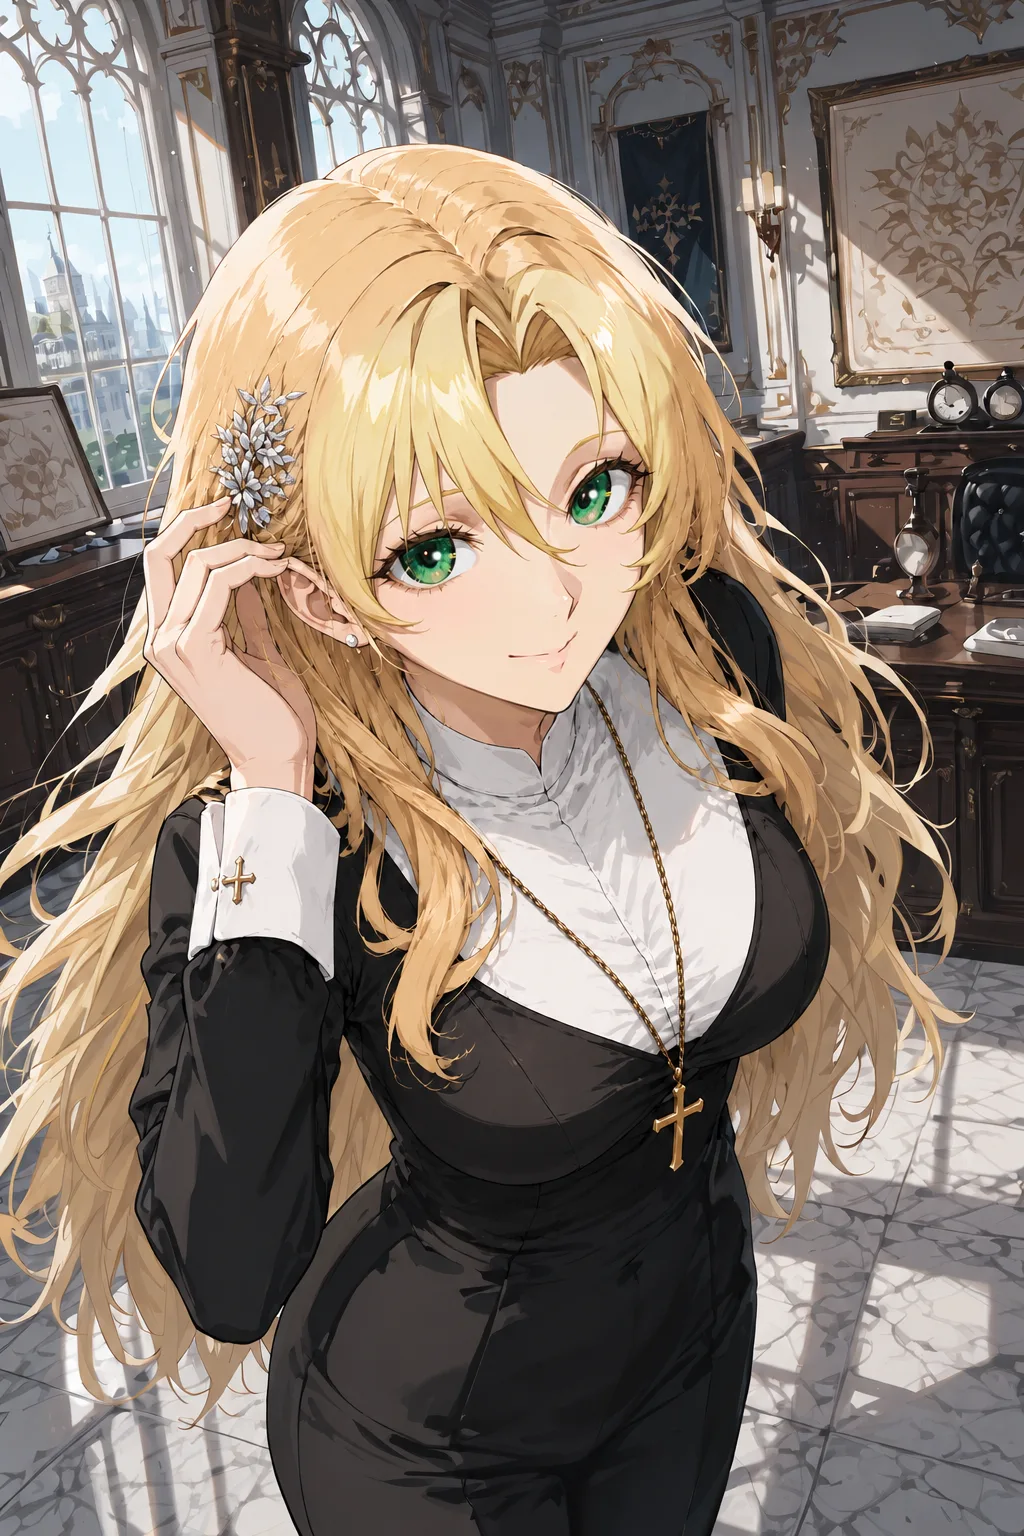
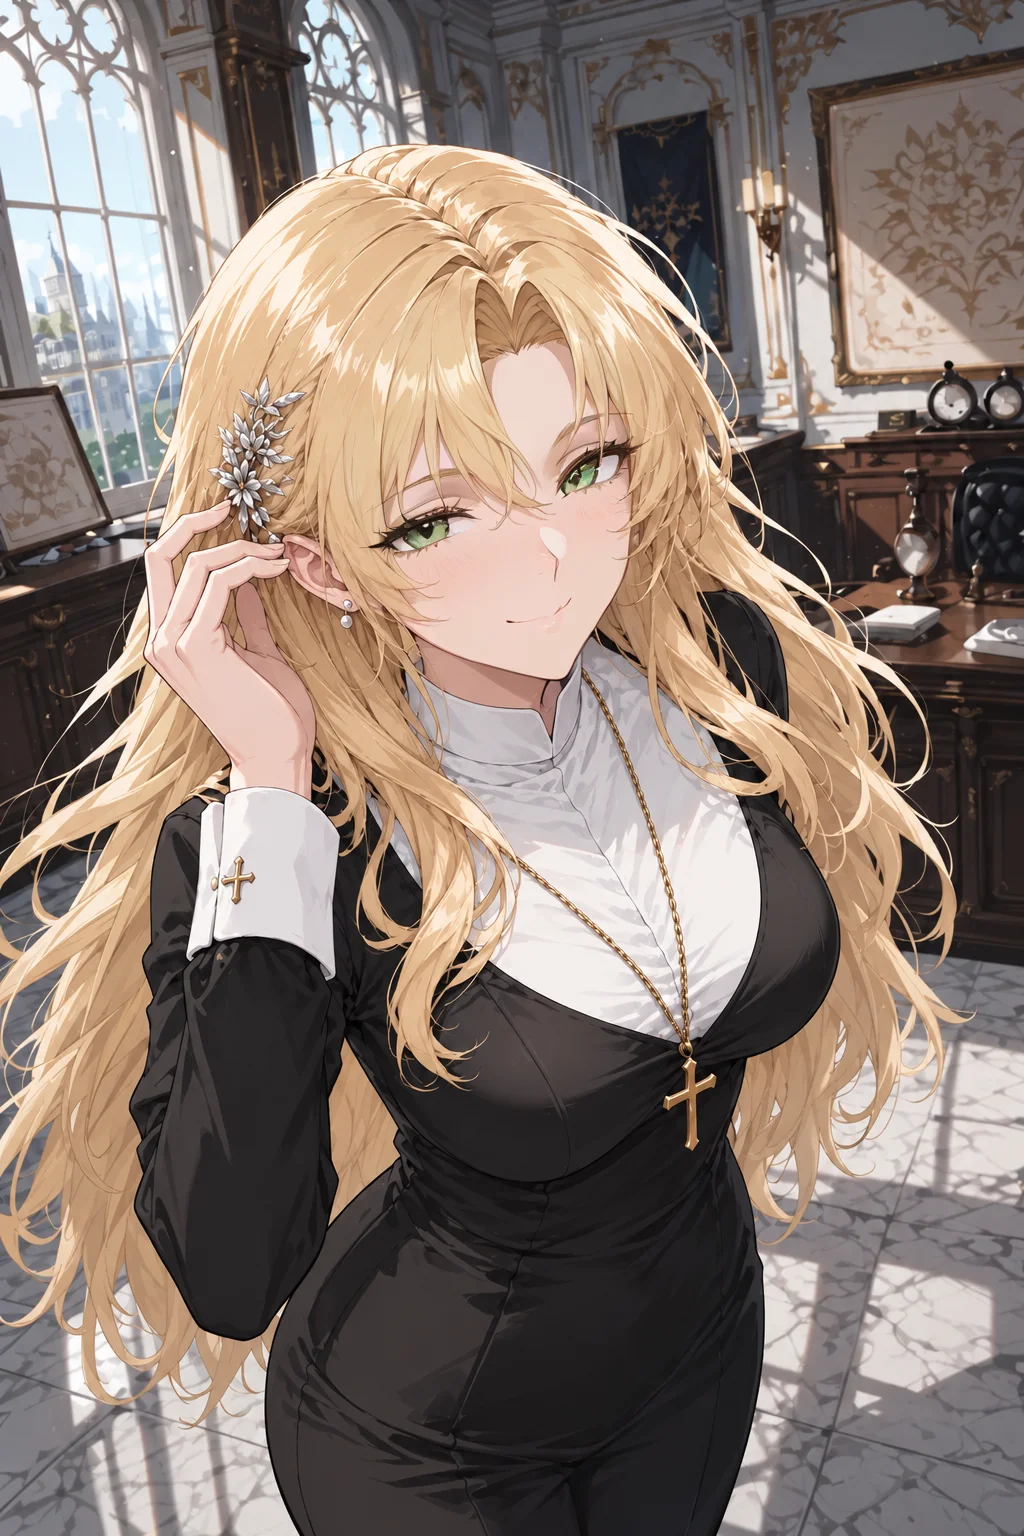
ver -1916：接美術新圖 —— 插圖 004_renna_intro 重交（ASSET_VER 2）、023_anyacottoncandy 掛上雪都安雅約會「真的……跟雲朵一樣。」、024_nouvellesmile 入庫待定位；賽西莉 front 重交（?v=2、重量取景）＋新差分 cringe

diff --git a/flight/index.html b/flight/index.html
@@ -3,7 +3,7 @@
 <head>
 <meta charset="utf-8">
 <meta name="viewport" content="width=device-width,initial-scale=1,maximum-scale=1,user-scalable=no,viewport-fit=cover">
-<script src="../orientation.js?v=1915"></script>
+<script src="../orientation.js?v=1916"></script>
 <script>
 /* 介面字譯文（ver -1909）：這一頁是非模組，程式一開跑就讀字串 —— 所以譯文表要**同步**載
    （document.write，只在選了有譯文的語言時）。語言判定與 i18n.js 的 LANG 同一套
@@ -11,7 +11,7 @@
 (function(){
   var l=null; try{ l=localStorage.getItem('tivot.lang'); }catch(e){}
   if(!l){ try{ var n=(navigator.languages&&navigator.languages[0])||navigator.language||''; if(String(n).toLowerCase().indexOf('es')===0) l='es'; }catch(e){} }
-  if(['es'].indexOf(l)>=0) document.write('<script src="../i18n/script/'+l+'.classic.js?v=1915"><\/script><script src="../i18n/ui/'+l+'.classic.js?v=1915"><\/script>');
+  if(['es'].indexOf(l)>=0) document.write('<script src="../i18n/script/'+l+'.classic.js?v=1916"><\/script><script src="../i18n/ui/'+l+'.classic.js?v=1916"><\/script>');
 })();
 function i18nT(s){ var t=window.__TIVOT_TR; return (t && typeof s==='string' && t[s]!=null) ? t[s] : s; }
 document.addEventListener('DOMContentLoaded', function(){
@@ -230,7 +230,7 @@ document.addEventListener('DOMContentLoaded', function(){
     100%{transform:translate(0,0);} }
   #fkerbDoor{position:absolute;left:0;top:0;transform:translateY(0);
     transition:transform 1s cubic-bezier(.22,.9,.25,1);
-    background-image:url('../resources/vfx/kerberos_door.webp?v=1915edab');
+    background-image:url('../resources/vfx/kerberos_door.webp?v=1916edab');
     background-repeat:no-repeat;background-size:100% 100%;}
   #fkerb.rise #fkerbDoor{transform:translateY(calc(var(--fkerb-rise,0px) * -1));}
   /* 楣與其餘零件：全部是門的子元素＝同一剛體，門上推它們跟著上去
@@ -253,8 +253,8 @@ document.addEventListener('DOMContentLoaded', function(){
       radial-gradient(circle at 50% 22%, rgba(0,0,0,.72) 40%, rgba(0,0,0,0) 78%);
     box-shadow:inset 0 3px 7px rgba(0,0,0,.85);}
   #fkerbGear .fkg-shine{position:absolute;inset:0;mix-blend-mode:screen;opacity:.8;
-    -webkit-mask-image:url("../resources/vfx/kerberos_gear.webp?v=1915edab");
-    mask-image:url("../resources/vfx/kerberos_gear.webp?v=1915edab");
+    -webkit-mask-image:url("../resources/vfx/kerberos_gear.webp?v=1916edab");
+    mask-image:url("../resources/vfx/kerberos_gear.webp?v=1916edab");
     -webkit-mask-size:100% 100%;mask-size:100% 100%;
     -webkit-mask-repeat:no-repeat;mask-repeat:no-repeat;
     background:linear-gradient(114deg,
@@ -274,8 +274,8 @@ document.addEventListener('DOMContentLoaded', function(){
     filter:drop-shadow(0 3px 7px rgba(0,0,0,.9)) drop-shadow(0 0 2px rgba(0,0,0,.8));}
   #fkerbPend .fkp-shine{position:absolute;inset:0;pointer-events:none;
     mix-blend-mode:screen;opacity:.85;
-    -webkit-mask-image:url("../resources/vfx/kerberos_pendant.webp?v=1915edab");
-    mask-image:url("../resources/vfx/kerberos_pendant.webp?v=1915edab");
+    -webkit-mask-image:url("../resources/vfx/kerberos_pendant.webp?v=1916edab");
+    mask-image:url("../resources/vfx/kerberos_pendant.webp?v=1916edab");
     -webkit-mask-size:100% 100%;mask-size:100% 100%;
     -webkit-mask-repeat:no-repeat;mask-repeat:no-repeat;
     background:linear-gradient(114deg,
@@ -640,25 +640,25 @@ img:not([src]), img[src=""], img.img-broken{visibility:hidden !important;}
        ⚠ 要有，否則交棒那一格齒輪會憑空冒出來（同吊墜的理由）。
        ⚠ 排在 `.fk-plate` 之前 ＝ 團徽之下、槍棺之上。 -->
   <div id="fkerbGear"><i class="fkg-well"></i>
-    <img src="../resources/vfx/kerberos_gear.webp?v=1915edab" alt=""><i class="fkg-shine"></i></div>
+    <img src="../resources/vfx/kerberos_gear.webp?v=1916edab" alt=""><i class="fkg-shine"></i></div>
   <div id="fkerbGearSm"><i class="fkg-well"></i>
-    <img src="../resources/vfx/kerberos_gear.webp?v=1915edab" alt=""></div>
-  <img class="fk-plate" src="../resources/vfx/kerberos_plate.webp?v=1915edab" alt="">
-  <img class="fk-arrow n" src="../resources/vfx/kerberos_arrow.webp?v=1915edab" alt="">
-  <img class="fk-arrow e" src="../resources/vfx/kerberos_arrow.webp?v=1915edab" alt="">
-  <img class="fk-arrow s" src="../resources/vfx/kerberos_arrow.webp?v=1915edab" alt="">
-  <img class="fk-arrow w" src="../resources/vfx/kerberos_arrow.webp?v=1915edab" alt="">
-  <img class="fk-rivet r10" src="../resources/vfx/kerberos_rivet.webp?v=1915edab" alt="">
-  <img class="fk-rivet r2"  src="../resources/vfx/kerberos_rivet.webp?v=1915edab" alt="">
-  <img class="fk-rivet r4"  src="../resources/vfx/kerberos_rivet.webp?v=1915edab" alt="">
-  <img class="fk-rivet r8"  src="../resources/vfx/kerberos_rivet.webp?v=1915edab" alt="">
+    <img src="../resources/vfx/kerberos_gear.webp?v=1916edab" alt=""></div>
+  <img class="fk-plate" src="../resources/vfx/kerberos_plate.webp?v=1916edab" alt="">
+  <img class="fk-arrow n" src="../resources/vfx/kerberos_arrow.webp?v=1916edab" alt="">
+  <img class="fk-arrow e" src="../resources/vfx/kerberos_arrow.webp?v=1916edab" alt="">
+  <img class="fk-arrow s" src="../resources/vfx/kerberos_arrow.webp?v=1916edab" alt="">
+  <img class="fk-arrow w" src="../resources/vfx/kerberos_arrow.webp?v=1916edab" alt="">
+  <img class="fk-rivet r10" src="../resources/vfx/kerberos_rivet.webp?v=1916edab" alt="">
+  <img class="fk-rivet r2"  src="../resources/vfx/kerberos_rivet.webp?v=1916edab" alt="">
+  <img class="fk-rivet r4"  src="../resources/vfx/kerberos_rivet.webp?v=1916edab" alt="">
+  <img class="fk-rivet r8"  src="../resources/vfx/kerberos_rivet.webp?v=1916edab" alt="">
   <!-- 吊墜（ver -412）：與主遊戲同一套（見 index.html 的 #kerbPend 與 style.css）。
        ⚠ 這一頁**必須也有** —— 遭遇時門是在這裡推上來的，交棒之後主遊戲那一半才接手；
          只有一邊掛吊墜的話，交棒那一格會憑空多出一個東西。 -->
   <div id="fkerbPend"><div class="fkp-swing"><div class="fkp-idle">
-    <img src="../resources/vfx/kerberos_pendant.webp?v=1915edab" alt=""><i class="fkp-shine"></i>
+    <img src="../resources/vfx/kerberos_pendant.webp?v=1916edab" alt=""><i class="fkp-shine"></i>
   </div></div></div>
-  <img id="fkerbTop" src="../resources/vfx/kerberos_top.webp?v=1915edab" alt="">
+  <img id="fkerbTop" src="../resources/vfx/kerberos_top.webp?v=1916edab" alt="">
 </div></div>
 <div id="boot">
   <div id="bRing">
@@ -679,11 +679,11 @@ img:not([src]), img[src=""], img.img-broken{visibility:hidden !important;}
   <div id="bMsg"><small id="bootMsg"></small></div>
 </div>
 
-<script src="settlement.js?v=1915"></script>
+<script src="settlement.js?v=1916"></script>
 <!-- 閒聊對話的**內容**獨立成一支：方便加台詞、加觸發條件而不必碰引擎。
      ⚠ 一般 <script>（非 module）→ TALKS / talkPeriod / talkPick 是全域，
        而且會在下面這段 inline 之前執行完，所以 inline 內可以直接用。 -->
-<script src="talks.js?v=1915"></script>
+<script src="talks.js?v=1916"></script>
 <script>
 /* 破圖框一律不畫（ver -1881，同主頁 main.js 那一支，這一頁是另一個 document）。 */
 document.addEventListener('error', e=>{ const t=e.target; if(t && t.tagName==='IMG') t.classList.add('img-broken'); }, true);
@@ -756,7 +756,7 @@ const COLOR_URL  = 'silvermoon_terrain.png'  + TERRAIN_V;
    以前是手寫的，於是從 -911 起就沒有人記得動它 —— 而 HUD 上的版本號正是 Ray
    在手機上確認「我現在跑的是哪一版」的唯一依據（鐵律 7：一個量一個計算點；
    ver -626：版本號不動就等於沒有版本號）。**不要手改。** */
-const FLIGHT_VER = 'ver -1915';
+const FLIGHT_VER = 'ver -1916';
 const MAP_SCALE  = 20;
 const INV_SCALE  = 1/MAP_SCALE;
 const PEAK_SCALE = 520;   // 高度圖 255 對應的世界高度（越大山越陡）

diff --git a/index.html b/index.html
@@ -16,7 +16,7 @@
 <link rel="apple-touch-icon" href="resources/background/tivot_emblem.png">
 <title>TIVOT</title>
 <!-- 全域鎖直向（真鎖 + 橫向擋板）；classic script，需在版面就緒前掛上 -->
-<script src="orientation.js?v=1915"></script>
+<script src="orientation.js?v=1916"></script>
 <!-- ══ 效能探針・計數層（ver -850，Ray：「沒有辦法寫一個偵測程式進去看是什麼
      東西在吃資源嗎？」）══ 要在**所有程式之前**掛（晚掛就數不到早開的計時器），
      所以住在這裡。只做登記（Set/計數，開銷趨近零）；讀取與呈現在 main.js 的
@@ -63,65 +63,65 @@
 <script type="importmap">
 {
   "imports": {
-    "./audio.js": "./audio.js?v=1915",
-    "./config.js": "./config.js?v=1915",
-    "./i18n.js": "./i18n.js?v=1915",
-    "./main.js": "./main.js?v=1915",
-    "./orientation.js": "./orientation.js?v=1915",
-    "./state.js": "./state.js?v=1915",
-    "./telemetry.js": "./telemetry.js?v=1915",
-    "./modules/beatpick.js": "./modules/beatpick.js?v=1915",
-    "./modules/combat.js": "./modules/combat.js?v=1915",
-    "./modules/defense.js": "./modules/defense.js?v=1915",
-    "./modules/enemy.js": "./modules/enemy.js?v=1915",
-    "./modules/gear.js": "./modules/gear.js?v=1915",
-    "./modules/groundShadow.js": "./modules/groundShadow.js?v=1915",
-    "./modules/haptics.js": "./modules/haptics.js?v=1915",
-    "./modules/inn.js": "./modules/inn.js?v=1915",
-    "./modules/inspector.js": "./modules/inspector.js?v=1915",
-    "./modules/loot.js": "./modules/loot.js?v=1915",
-    "./modules/partner.js": "./modules/partner.js?v=1915",
-    "./modules/saint.js": "./modules/saint.js?v=1915",
-    "./modules/sakura.js": "./modules/sakura.js?v=1915",
-    "./modules/save.js": "./modules/save.js?v=1915",
-    "./modules/settings.js": "./modules/settings.js?v=1915",
-    "./modules/story.js": "./modules/story.js?v=1915",
-    "./modules/tone.js": "./modules/tone.js?v=1915",
-    "./modules/town.js": "./modules/town.js?v=1915",
-    "./modules/transition.js": "./modules/transition.js?v=1915",
-    "./modules/tutorial.js": "./modules/tutorial.js?v=1915",
-    "./modules/weapon.js": "./modules/weapon.js?v=1915",
-    "./script/bg_index.js": "./script/bg_index.js?v=1915",
-    "./script/clock.js": "./script/clock.js?v=1915",
-    "./script/enemies.js": "./script/enemies.js?v=1915",
-    "./script/evaluation.js": "./script/evaluation.js?v=1915",
-    "./script/inventory.js": "./script/inventory.js?v=1915",
-    "./script/loadout.js": "./script/loadout.js?v=1915",
-    "./script/mainScript.js": "./script/mainScript.js?v=1915",
-    "./script/progress.js": "./script/progress.js?v=1915",
-    "./script/shopcards.js": "./script/shopcards.js?v=1915",
-    "./script/shopstock.js": "./script/shopstock.js?v=1915",
-    "./script/speakers.js": "./script/speakers.js?v=1915",
-    "./script/town.js": "./script/town.js?v=1915",
-    "./script/weapons.js": "./script/weapons.js?v=1915",
-    "./i18n/en.js": "./i18n/en.js?v=1915",
-    "./i18n/es.js": "./i18n/es.js?v=1915",
-    "./i18n/ja.js": "./i18n/ja.js?v=1915",
-    "./i18n/scriptTr.js": "./i18n/scriptTr.js?v=1915",
-    "./i18n/zh.js": "./i18n/zh.js?v=1915",
-    "./i18n/script/es.classic.js": "./i18n/script/es.classic.js?v=1915",
-    "./i18n/script/es.js": "./i18n/script/es.js?v=1915",
-    "./i18n/ui/es.classic.js": "./i18n/ui/es.classic.js?v=1915",
-    "./i18n/ui/es.js": "./i18n/ui/es.js?v=1915"
+    "./audio.js": "./audio.js?v=1916",
+    "./config.js": "./config.js?v=1916",
+    "./i18n.js": "./i18n.js?v=1916",
+    "./main.js": "./main.js?v=1916",
+    "./orientation.js": "./orientation.js?v=1916",
+    "./state.js": "./state.js?v=1916",
+    "./telemetry.js": "./telemetry.js?v=1916",
+    "./modules/beatpick.js": "./modules/beatpick.js?v=1916",
+    "./modules/combat.js": "./modules/combat.js?v=1916",
+    "./modules/defense.js": "./modules/defense.js?v=1916",
+    "./modules/enemy.js": "./modules/enemy.js?v=1916",
+    "./modules/gear.js": "./modules/gear.js?v=1916",
+    "./modules/groundShadow.js": "./modules/groundShadow.js?v=1916",
+    "./modules/haptics.js": "./modules/haptics.js?v=1916",
+    "./modules/inn.js": "./modules/inn.js?v=1916",
+    "./modules/inspector.js": "./modules/inspector.js?v=1916",
+    "./modules/loot.js": "./modules/loot.js?v=1916",
+    "./modules/partner.js": "./modules/partner.js?v=1916",
+    "./modules/saint.js": "./modules/saint.js?v=1916",
+    "./modules/sakura.js": "./modules/sakura.js?v=1916",
+    "./modules/save.js": "./modules/save.js?v=1916",
+    "./modules/settings.js": "./modules/settings.js?v=1916",
+    "./modules/story.js": "./modules/story.js?v=1916",
+    "./modules/tone.js": "./modules/tone.js?v=1916",
+    "./modules/town.js": "./modules/town.js?v=1916",
+    "./modules/transition.js": "./modules/transition.js?v=1916",
+    "./modules/tutorial.js": "./modules/tutorial.js?v=1916",
+    "./modules/weapon.js": "./modules/weapon.js?v=1916",
+    "./script/bg_index.js": "./script/bg_index.js?v=1916",
+    "./script/clock.js": "./script/clock.js?v=1916",
+    "./script/enemies.js": "./script/enemies.js?v=1916",
+    "./script/evaluation.js": "./script/evaluation.js?v=1916",
+    "./script/inventory.js": "./script/inventory.js?v=1916",
+    "./script/loadout.js": "./script/loadout.js?v=1916",
+    "./script/mainScript.js": "./script/mainScript.js?v=1916",
+    "./script/progress.js": "./script/progress.js?v=1916",
+    "./script/shopcards.js": "./script/shopcards.js?v=1916",
+    "./script/shopstock.js": "./script/shopstock.js?v=1916",
+    "./script/speakers.js": "./script/speakers.js?v=1916",
+    "./script/town.js": "./script/town.js?v=1916",
+    "./script/weapons.js": "./script/weapons.js?v=1916",
+    "./i18n/en.js": "./i18n/en.js?v=1916",
+    "./i18n/es.js": "./i18n/es.js?v=1916",
+    "./i18n/ja.js": "./i18n/ja.js?v=1916",
+    "./i18n/scriptTr.js": "./i18n/scriptTr.js?v=1916",
+    "./i18n/zh.js": "./i18n/zh.js?v=1916",
+    "./i18n/script/es.classic.js": "./i18n/script/es.classic.js?v=1916",
+    "./i18n/script/es.js": "./i18n/script/es.js?v=1916",
+    "./i18n/ui/es.classic.js": "./i18n/ui/es.classic.js?v=1916",
+    "./i18n/ui/es.js": "./i18n/ui/es.js?v=1916"
   }
 }
 </script>
 <!-- BUST:END -->
-<link rel="stylesheet" href="style.css?v=1915">
+<link rel="stylesheet" href="style.css?v=1916">
   <!-- 拾得道具／道具欄／商店／懸賞榜（ver -380 抽出，飛行頁共用同一份）。
        ⚠ `data-lootsheet` 是給 `modules/loot.js` 認的：它看到已經掛過就不再掛一次。
          飛行頁沒有這一行，由那支模組自己掛上去。 -->
-  <link rel="stylesheet" href="css/lootsheet.css?v=1915" data-lootsheet="1">
+  <link rel="stylesheet" href="css/lootsheet.css?v=1916" data-lootsheet="1">
 <!-- 主畫面 App（standalone）偵測：首繪前在 <html> 蓋 .standalone，
      供 CSS 修 iOS 26 版面視窗少算頂部安全區高度（底部露黑帶）的問題 -->
 <script>
@@ -745,6 +745,6 @@
      ⚠ src 是**按下去才給**的（lazy）：不然每次開機都要多載一整個飛行頁。 -->
 <iframe id="flightFrame" title="飛行"></iframe>
 
-<script type="module" src="main.js?v=1915"></script>
+<script type="module" src="main.js?v=1916"></script>
 </body>
 </html>

diff --git a/script/town.js b/script/town.js
@@ -5641,11 +5641,11 @@ export const TOWNS = {
         shop:'rv_grocery', keeperWho:'SHOPKEEP', kind:'grocery', hours:[8,17], closed:'櫥窗裡的燈熄了，門板上掛著「已打烊」。',   // 商店：通用帝都版本、店主暫用帝都（ver -1831，卡在 script/shopcards.js）
         exits:{ back:'uptown' },
         /* ══ 約會・安雅（ver -1522）══ 棉花糖。
-           ⚠ 稿上「安雅棉花糖插圖」還沒有檔案 ⇒ **不寫 `cg:`**（同酒吧那一格）。
-             圖到了補在「真的……跟雲朵一樣。」那一拍、下一拍 `cg:null` 收掉。 */
+           ⚠ 插圖 `023_anyacottoncandy`（ver -1916 接上）掛在「真的……跟雲朵一樣。」那一拍、下一拍 `cg:null` 收掉。 */
         acts:[ { flag:'vn_shop_anya', withWho:'ANYA', lines:[
-          any('amaze','真的……跟雲朵一樣。'),
-          any('smileshy','好甜。'),
+          /* ver -1916：插圖 `023_anyacottoncandy` 到了 —— 掛在這一句，下一拍收掉。 */
+          Object.assign(any('amaze','真的……跟雲朵一樣。'), { cg:'023_anyacottoncandy', cgNoTime:true }),
+          Object.assign(any('smileshy','好甜。'), { cg:null }),
         ] } ] },
       /* ⚠ 這一格**沒有** `inn:true`：旅店大廳與四扇伙伴門這一輪不做（同聖索菲亞）
          —— 只寫 `inn:true` 而沒有人應門的話，玩家會敲到一排空門（§6.5.5）。 */

diff --git a/config.js b/config.js
@@ -84,7 +84,7 @@ export const HITFX = {
  *     以為是快取卡住 —— 版本號不動就等於沒有版本號）。
  *  ⚠ 它同時是**暖開機戳記的鑰匙**（main.js 的 `WARM_BOOT`）：版本一變，
  *    上一版的戳記就失效 → 下一次開機重跑完整讀取。那正是改版後該有的行為。 */
-export const VERSION = 'ver 2026.09.22-1915';
+export const VERSION = 'ver 2026.09.22-1916';
 
 export const GAME_CONFIG = {
 
@@ -5082,6 +5082,7 @@ export function asset(key){ return (key && ASSETS[key] != null) ? ASSETS[key] : 
      呼叫端各自拼一次。 */
 export const ASSET_VER = {
   '008_rennaholdanya': 2,   // ver -1882：美術重交（png→webp 同名覆蓋）
+  '004_renna_intro':   2,   // ver -1916：美術重交（png→webp 同名覆蓋）
   /* ⚠ `tomb_landing3`（ver -1684，Ray 換了底層梯廳的背景）：**同名覆蓋**
      ⇒ 一定要跳版本，否則玩家的快取會抱著舊的那一張不放，而畫面上看起來
      就只是「圖沒換」，查不到原因（§5 的 -650／-905）。

diff --git a/script/speakers.js b/script/speakers.js
@@ -1475,8 +1475,10 @@ export const ART = {
     /* ⚠ 雙槍那一張還沒有人用（戰鬥立繪走敵人卡的 `enemy_nemo`）—— 先接著。 */
     dual:     { src:'resources/si/nemo_si_dual.webp',     top:0, bot:1535, fx:0.408 },
   } },
-  cecilie:   { cm:170, eye:32, fx:0.534, top:7, bot:1533,
-           side:'R', alt:null, base:'resources/si/cecilie_si_front.webp', expr:{
+  /* ver -1916：front 美術重交（同名覆蓋 ?v=2，measure_si 重量 top/bot/fx）；新增 `cringe`。 */
+  cecilie:   { cm:170, eye:32, fx:0.536, top:8, bot:1533,
+           side:'R', alt:null, base:'resources/si/cecilie_si_front.webp?v=2', expr:{
+    cringe:   { src:'resources/si/cecilie_si_cringe.webp',    top:7, bot:1535, fx:0.632 },
     talk:     { src:'resources/si/cecilie_si_talk.webp',      top:7, bot:1527, fx:0.539 },
     tease:    { src:'resources/si/cecilie_si_tease.webp',     top:4, bot:1529, fx:0.574 },
     upset:    { src:'resources/si/cecilie_si_upset.webp',     top:2, bot:1526, fx:0.535 },

diff --git a/modules/story.js b/modules/story.js
@@ -3201,7 +3201,7 @@ const KERB_DIR='resources/vfx/';
    cache-buster（§5：檔名沒變、內容變了，瀏覽器照樣拿舊的那一份，而症狀只是
    「看起來沒變」）。版本號由 `tools/bust.py` 同步，路徑只由 `kerbUrl()` 組（鐵律 8）——
    飛行頁那一半是另一個 document，各有一份，改一邊要改另一邊。 */
-const KERB_V='?v=1915';
+const KERB_V='?v=1916';
 const kerbUrl=n=>KERB_DIR+n+'.webp'+KERB_V;
 /* 幾何：由 tools/kerberos_cut.py 印出來的（門座標的比例）。**改圖要重跑腳本再貼回來。**
    ⚠ 箭與鉚釘給的是**中心點**與**未旋轉**的尺寸 —— CSS 的 rotate 是繞元素中心轉的，
